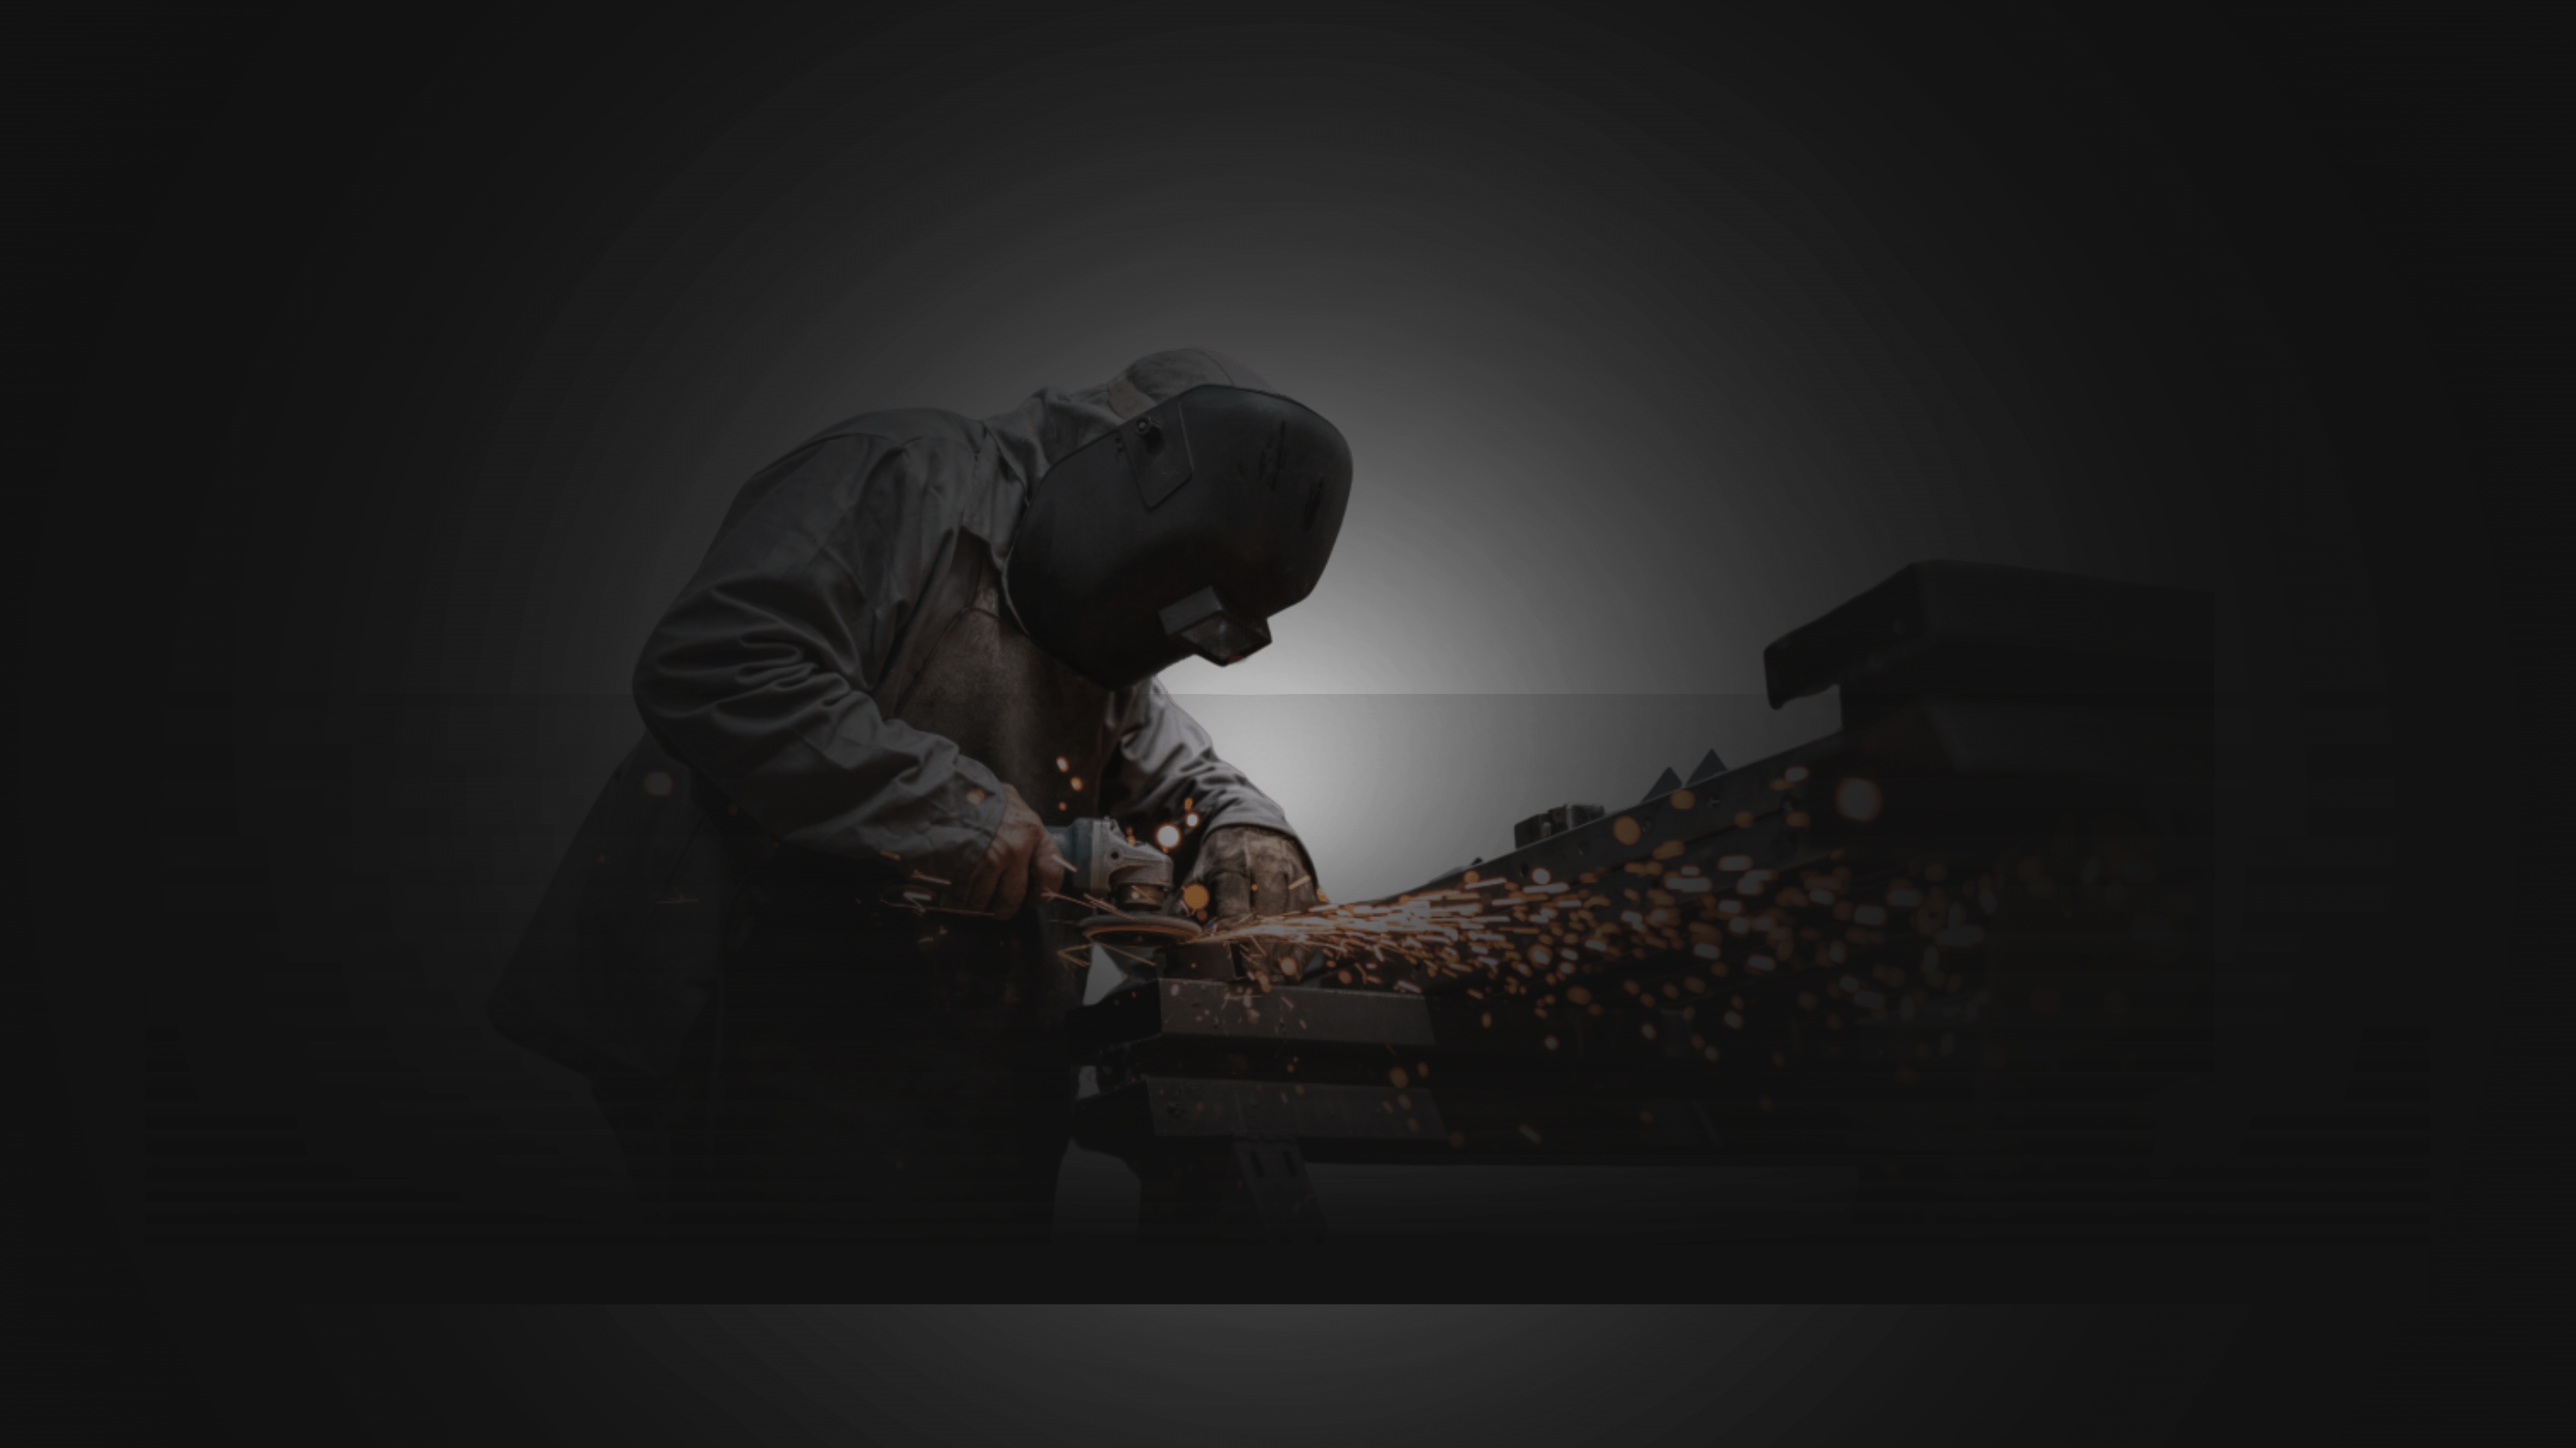
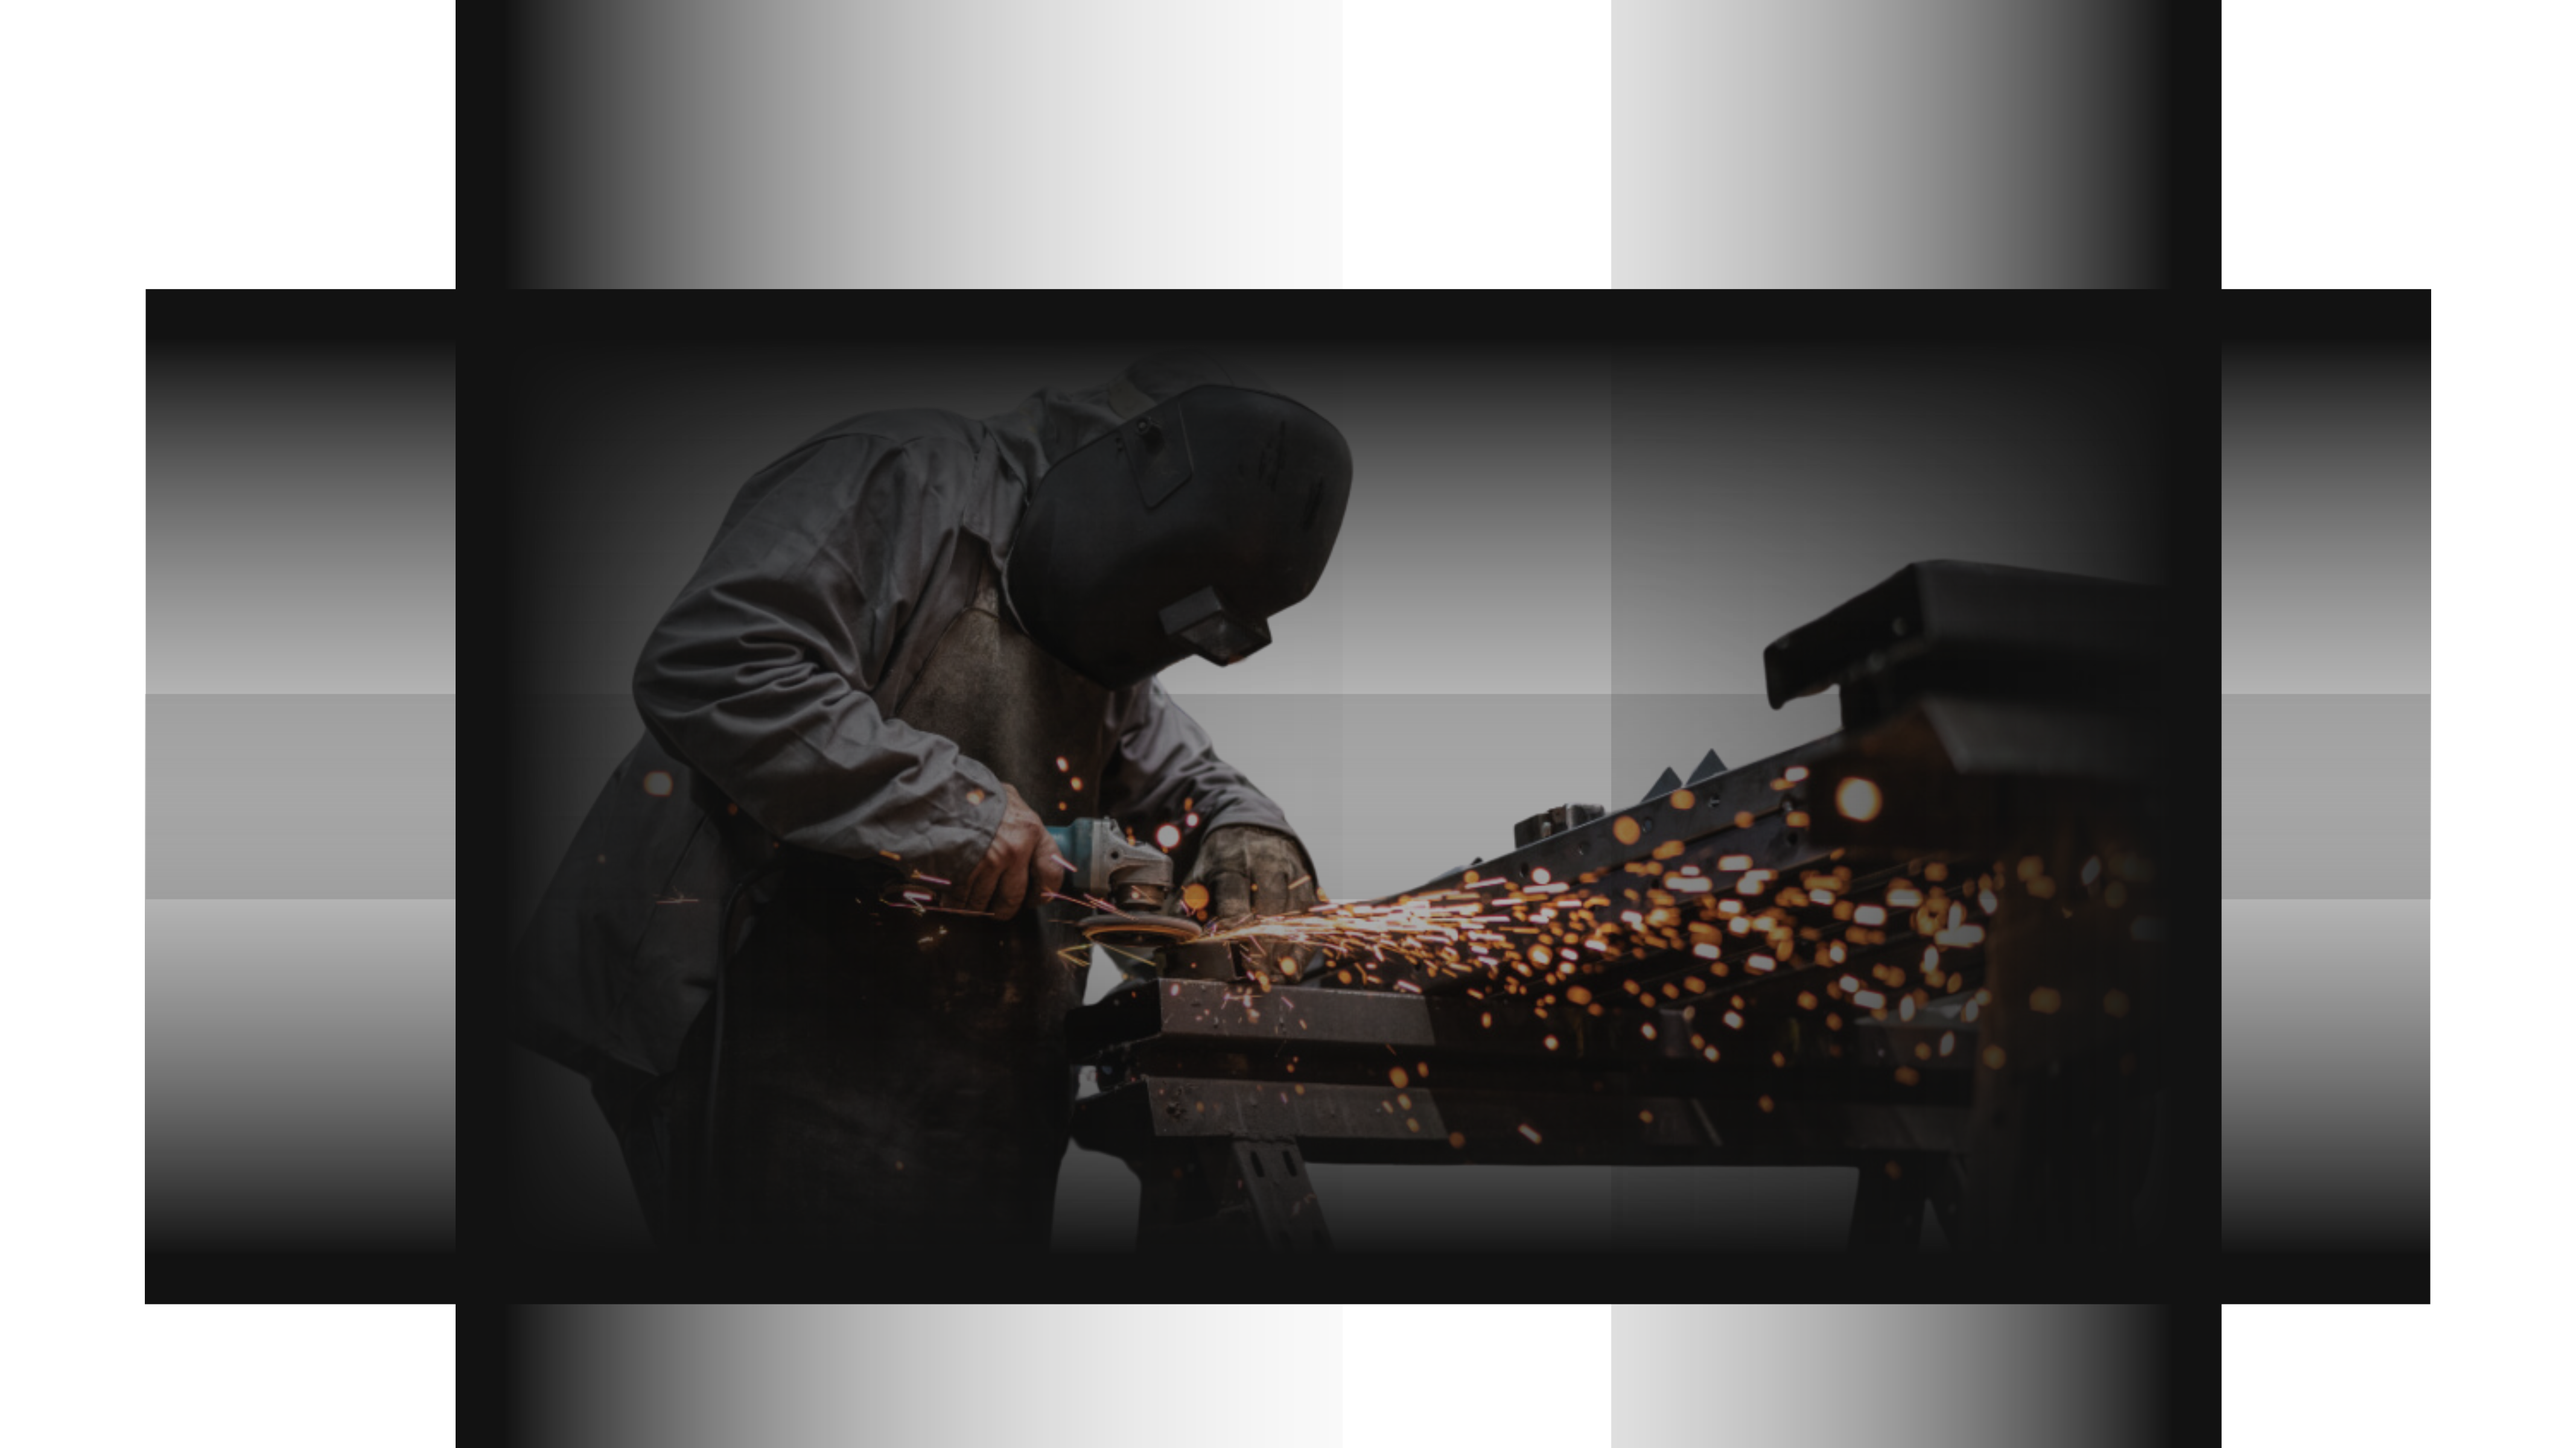
2.0.6

diff --git a/index.html b/index.html
@@ -62,9 +62,13 @@
           <h1 class="t-s3">Plano de corte <span class="pronest">ProNest</span></h1>
         </div>
 
-      <div class="bg-p-s3">
-        <p class="p-s3">Com o ProNest aberto na aba 'Arquivo', selecione a opção 'Novo'. <br><br> Escolha a máquina para fazer o corte, neste caso, 'UNIPLASMA 3'. <br><br> Selecione a espessura da chapa. <br><br> Escolha a voltagem de acordo com a indicação acima e vá em 'Criar'. <br><br> Vá na pasta onde estão localizadas as peças que foram salvas pelo AutoCad, confira se as medidas estão corretas, aperte 'Enter' para lançar as peças, mude a quantidade de acordo com cada peça e clique em 'voltar ao agrupamento'. <br><br> Vá em 'Editar lista de chapas' e configure o tamanho da chapa que será usada no corte e volte ao agrupamento. <br><br> Selecione a opção 'Agrupamento automático'. <br><br> Organize as peças caso nescessário. <br><br> Salve o arquivo na pasta inicial do projeto com o nome: <abbr class="ab" title="ESPESSURA">'#xx</abbr> <abbr class="ab" title="MATERIAL">xxx</abbr> <abbr class="ab" title="PROJETO">HCxxxxxx'.</abbr> <br><br> Vá em 'Saída' e salve com o mesmo nome na pasta: 'PRONEST' > 'PROGRAMAS'. <br><br> Vá em 'Relatórios', crie um PDF e salve na pasta 'PRONEST' > 'PDF'. <br><br> Por último, imprima o relatório.
+      
+    </section>
+    <section class="sessao4"><div class="bg-p-s3">
+        <p class="p-s3">Com o ProNest aberto na aba 'Arquivo', selecione a opção 'Novo'. <br><br> Escolha a máquina para fazer o corte, neste caso, 'UNIPLASMA 3'. <br><br> Selecione a espessura da chapa. <br><br> Escolha a voltagem de acordo com a indicação ao lado e vá em 'Criar'. <br><br> Vá na pasta onde estão localizadas as peças que foram salvas pelo AutoCad, confira se as medidas estão corretas, aperte 'Enter' para lançar as peças, mude a quantidade de acordo com cada peça e clique em 'voltar ao agrupamento'. <br><br> Vá em 'Editar lista de chapas' e configure o tamanho da chapa que será usada no corte e volte ao agrupamento. <br><br> Selecione a opção 'Agrupamento automático'. <br><br> Organize as peças caso nescessário. <br><br> Salve o arquivo na pasta inicial do projeto com o nome: <abbr class="ab" title="ESPESSURA">'#xx</abbr> <abbr class="ab" title="MATERIAL">xxx</abbr> <abbr class="ab" title="PROJETO">HCxxxxxx'.</abbr> <br><br> Vá em 'Saída' e salve com o mesmo nome na pasta: 'PRONEST' > 'PROGRAMAS'. <br><br> Vá em 'Relatórios', crie um PDF e salve na pasta 'PRONEST' > 'PDF'. <br><br> Por último, imprima o relatório.
       </div>
+
+      <p class="voltagem">50a #1 à #4,65 <br><br> 130a #6,35 à #16 <br><br> 200a #19 à #32 <br><br> Acima, OXICORTE</p>
     </section>
 
 

diff --git a/style.css b/style.css
@@ -163,10 +163,10 @@ body {
     top: 100%;
 }
 .bg-perfil::before {
-    background-color: #ff5500;
+    background-color: green;
 }
 .conversor-pol::before {
-    background-color: #007fc7;
+    background-color: #005fc7;
 }
 
 .bg-perfil:hover::before, .conversor-pol:hover::before {
@@ -302,7 +302,7 @@ body {
 
 /********* SESSÃO 3 ************/
 .sessao3 {
-    background: #121212 url('imagens/background.svg');
+    background: #121212 url('imagens/background.png');
     background-repeat: no-repeat;
     background-size: cover;
     background-position: center center;
@@ -313,7 +313,6 @@ body {
     position: relative;
     display: flex;
     justify-content: center;
-    top: 8vh;
     width: 100%;
 }
 .t-s3 {
@@ -332,19 +331,38 @@ body {
     align-items: end;
 }
 .p-s3 {
-    background-color: rgba(0, 0, 0, 0.233);
     color: #b3b3b3;
-    width: 80%;
     padding: 30px;
     position: relative;
     bottom: 5vh;
-    transition: .5s;
-}
-.p-s3:hover {
-    background-color: black;
-    transition: .5s;
+    left: 10vh;
+    width: 60%;
 }
 
 .ab {
     text-decoration: none;
+}
+
+.sessao4 {
+    display: flex;
+}
+.voltagem {
+    background-color: #1e1e1e;
+    display: flex;
+    justify-content: center;
+    align-items: center;
+    width: 20%;
+    height: 30vh;
+    color: #e0e0e0;
+    position: relative;
+    top: 20vh;
+    right: 20%;
+    transition: .5s;
+    border-radius: 10px;
+    box-shadow: 10px 10px 10px rgba(0, 0, 0, 0.473);
+}
+.voltagem:hover {
+    transform: scale(1.2);
+    box-shadow: 5px 5px 10px rgba(0, 0, 0, 0.315);
+    transition: .5s;
 }
